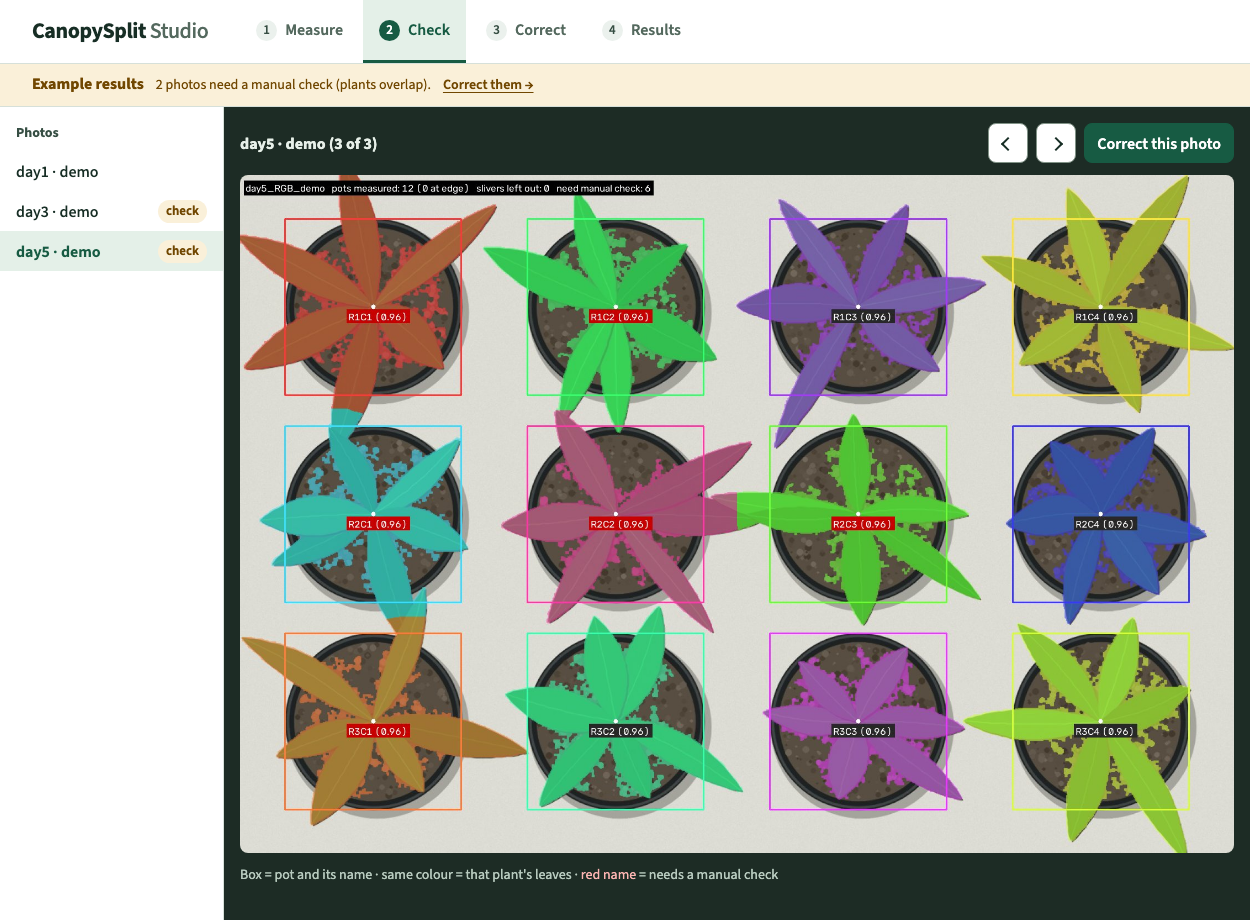
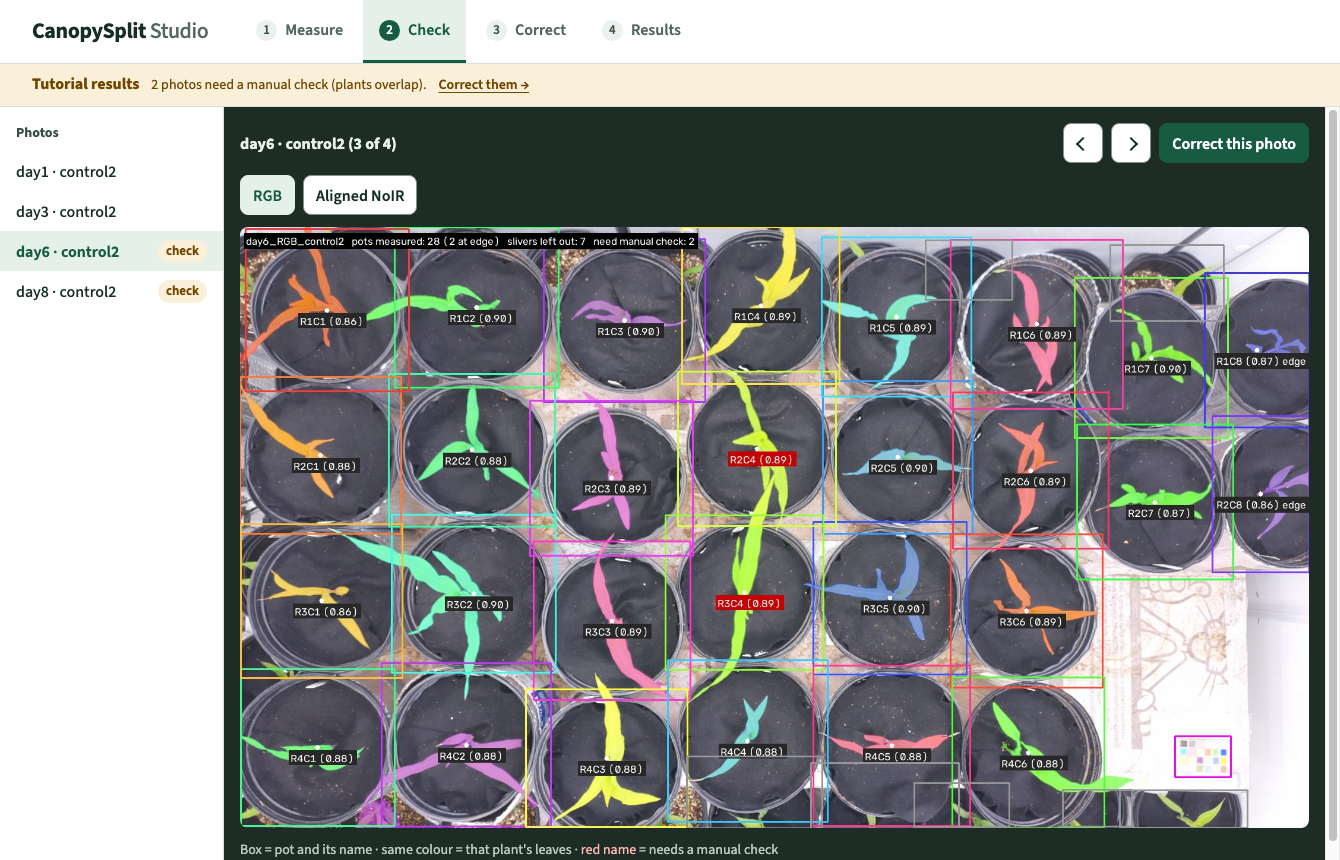
Add CanopySplit walkthrough and review screenshots

diff --git a/README.md b/README.md
@@ -18,6 +18,8 @@ another plant type or camera setup.
 
 [Install](#install-and-open) · [Prepare photos](#prepare-your-photos) · [Measure](#measure-a-dataset) · [Results](#results)
 
+[Download the 2½-minute silent walkthrough (MP4)](https://github.com/WorasitSangjan/CanopySplit-Studio/releases/download/v0.1.0-beta.1/CanopySplit-Studio-Walkthrough.mp4)
+
 ## Install and open
 
 1. On GitHub, choose **Code → Download ZIP**. On Mac, double-click the ZIP in
@@ -113,19 +115,20 @@ recalculation. If you measure replacement photos, choose a new output folder.
 
 ## CanopySplit in action
 
-These screenshots follow one example run using synthetic plant images.
+Check and Correct use real maize photos from the video walkthrough. Measure
+and Results show a synthetic example.
 
 **1. Measure** shows the dataset folder, pot diameter, and statistics options.
 
 ![Measure tab with an example dataset, pot diameter, and summary statistics options](docs/screenshots/measure.png)
 
-**2. Check** shows numbered pots and colour-coded leaf assignments. Red labels mark plants flagged for review.
+**2. Check** shows numbered pots and colour-coded leaf assignments in the RGB overlay. Red labels mark plants flagged for review.
 
-![Check tab showing numbered pots and overlapping leaves with colour-coded assignments](docs/screenshots/check.png)
+![Check tab showing numbered pots, colour-coded maize leaves, and two red labels marking plants flagged for review](docs/screenshots/check.png)
 
-**3. Correct** shows a selected plant and the brush tool for fixing leaf assignments.
+**3. Correct** shows a close-up of two crossing leaves after the Brush tool reassigns part of a leaf to pot R3C4.
 
-![Correct tab showing a flagged plant selected in the leaf editor](docs/screenshots/correct.png)
+![Correct tab zoomed in on crossing maize leaves, with Brush active and pot R3C4 selected](docs/screenshots/correct.png)
 
 **4. Results** shows a colour index across experiment days and links to download the per-plant and summary CSVs.
 
